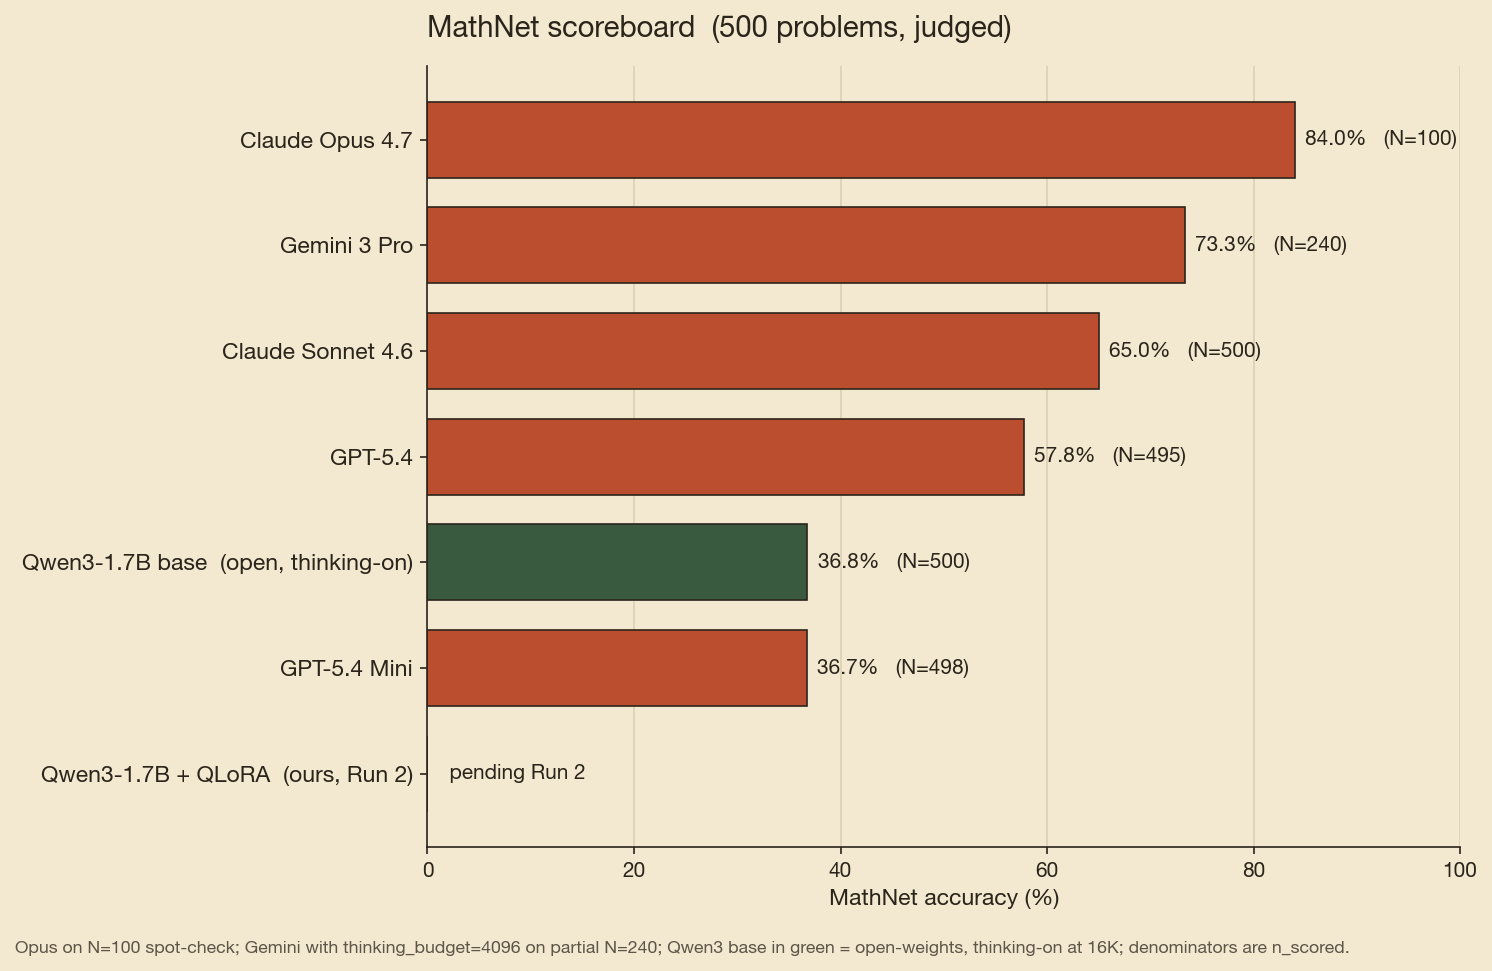
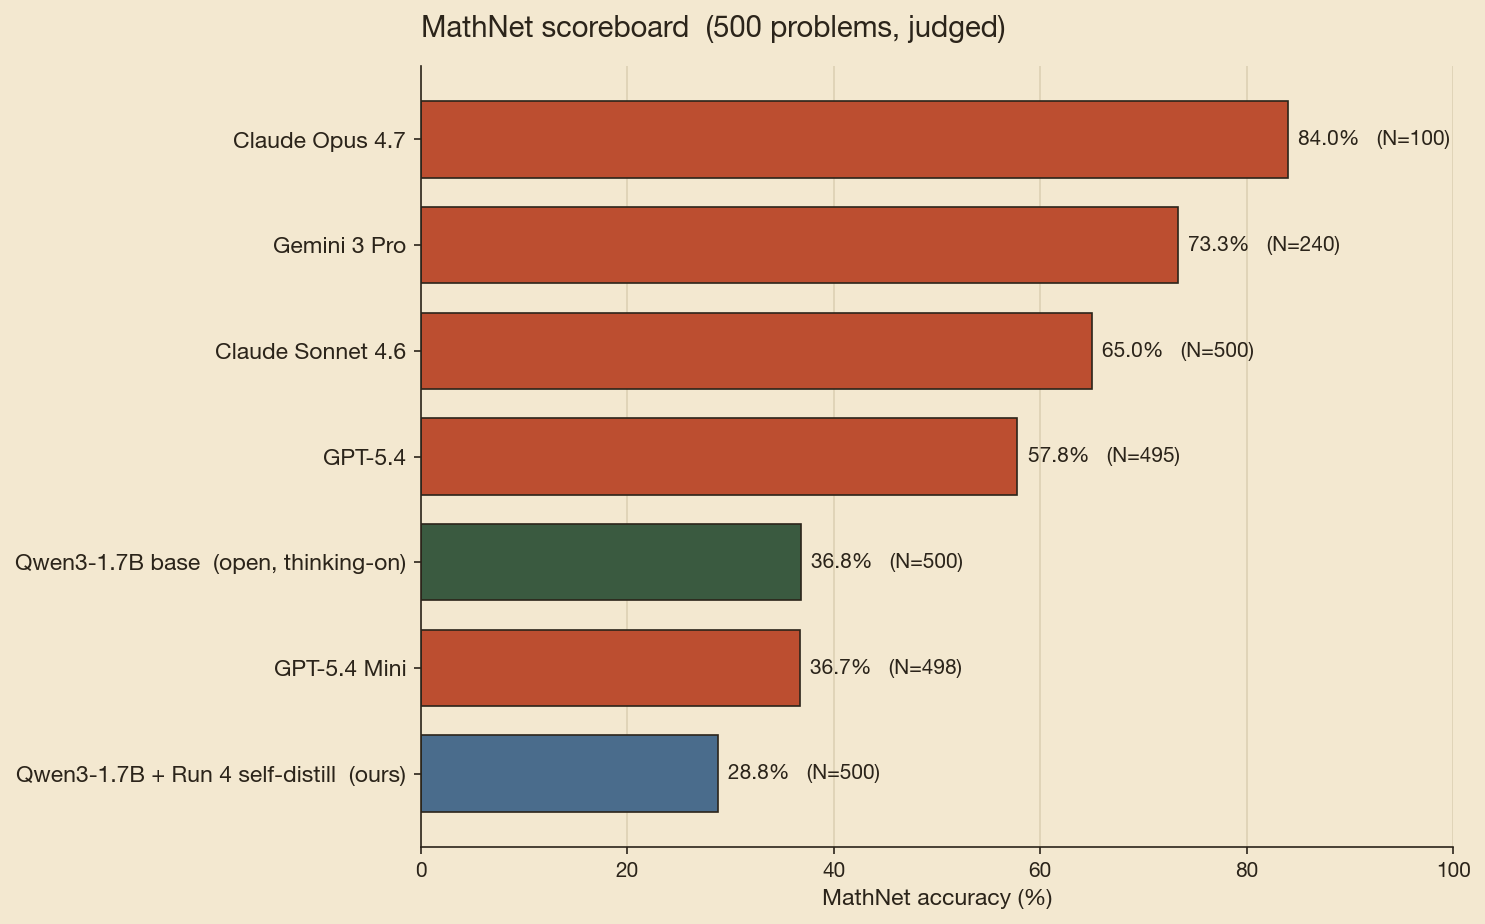
scoreboard.png: add Run 4 row, drop embedded caption
Previous scoreboard.png was stale: showed a "pending Run 2" placeholder
row that should have been replaced once Run 4 results landed.

Changes:
  - MODEL_ORDER now includes qwen3-1.7b-run4 with the actual 28.8%
    self-distill result.
  - New OURS_SLUGS set so Run 4 renders in slate (distinct from forest
    open-base and rust frontier-API rows).
  - Removed the embedded caption text inside the PNG; that info is
    already in the README scoreboard footnote.
  - Added a minimal results/full/qwen3-1.7b-run4/summary.json with the
    accuracy + n_scored fields needed for figure generation. Full
    summary lives on klone (sparse-checkout filtered locally).
  - Made grader_paths() filter to slugs that carry method_counts so
    the new Run 4 stub doesn't break it.

Regenerated PNGs: scoreboard.png, grader_paths.png, architecture.png,
data_funnel.png.

diff --git a/scripts/make_figures.py b/scripts/make_figures.py
@@ -48,10 +48,12 @@ MODEL_ORDER = [
     ("gpt-5.4", "GPT-5.4"),
     ("qwen3-1.7b-base", "Qwen3-1.7B base  (open, thinking-on)"),
     ("gpt-5.4-mini", "GPT-5.4 Mini"),
+    ("qwen3-1.7b-run4", "Qwen3-1.7B + Run 4 self-distill  (ours)"),
 ]
-# slugs in MODEL_ORDER that are open-weights (rendered in forest green to
-# distinguish from the rust frontier-API rows)
+# slugs that are open-weights (forest green) and project-internal results
+# (slate). Everything else is a rust frontier-API row.
 OPEN_SLUGS = {"qwen3-1.7b-base"}
+OURS_SLUGS = {"qwen3-1.7b-run4"}
 
 
 def base_style() -> None:
@@ -103,7 +105,10 @@ def scoreboard() -> None:
     ys = np.arange(len(labels))[::-1]
 
     fig, ax = plt.subplots(figsize=(10, 6.6))
-    bar_colors = [FOREST if s in OPEN_SLUGS else RUST for s, _ in present]
+    bar_colors = [
+        SLATE if s in OURS_SLUGS else (FOREST if s in OPEN_SLUGS else RUST)
+        for s, _ in present
+    ]
     bars = ax.barh(ys, accs, color=bar_colors, edgecolor=INK, linewidth=0.8, height=0.72)
 
     for bar, acc, n in zip(bars, accs, ns):
@@ -121,11 +126,6 @@ def scoreboard() -> None:
     ax.set_title("MathNet scoreboard  (500 problems, judged)",
                  fontsize=14, pad=14, loc="left")
 
-    fig.text(0.01, 0.03,
-             "Opus on N=100 spot-check; Gemini with thinking_budget=4096 on partial N=240; "
-             "Qwen3 base in green = open-weights, thinking-on at 16K; denominators are n_scored.",
-             fontsize=8.5, color=INK, alpha=0.75)
-
     plt.tight_layout(rect=(0, 0.05, 1, 1))
     out = FIGURES / "scoreboard.png"
     fig.savefig(out, dpi=150, bbox_inches="tight")
@@ -138,7 +138,9 @@ def grader_paths() -> None:
     if not data:
         print("  [skip] grader_paths: no summaries loaded")
         return
-    present = [(s, n) for s, n in MODEL_ORDER if s in data]
+    # filter to slugs that actually carry per-method counts
+    present = [(s, n) for s, n in MODEL_ORDER
+               if s in data and "method_counts" in data[s]]
     paths = ["exact", "normalized", "symbolic", "judge", "miss"]
     labels = [name for _, name in present]
     matrix = []
